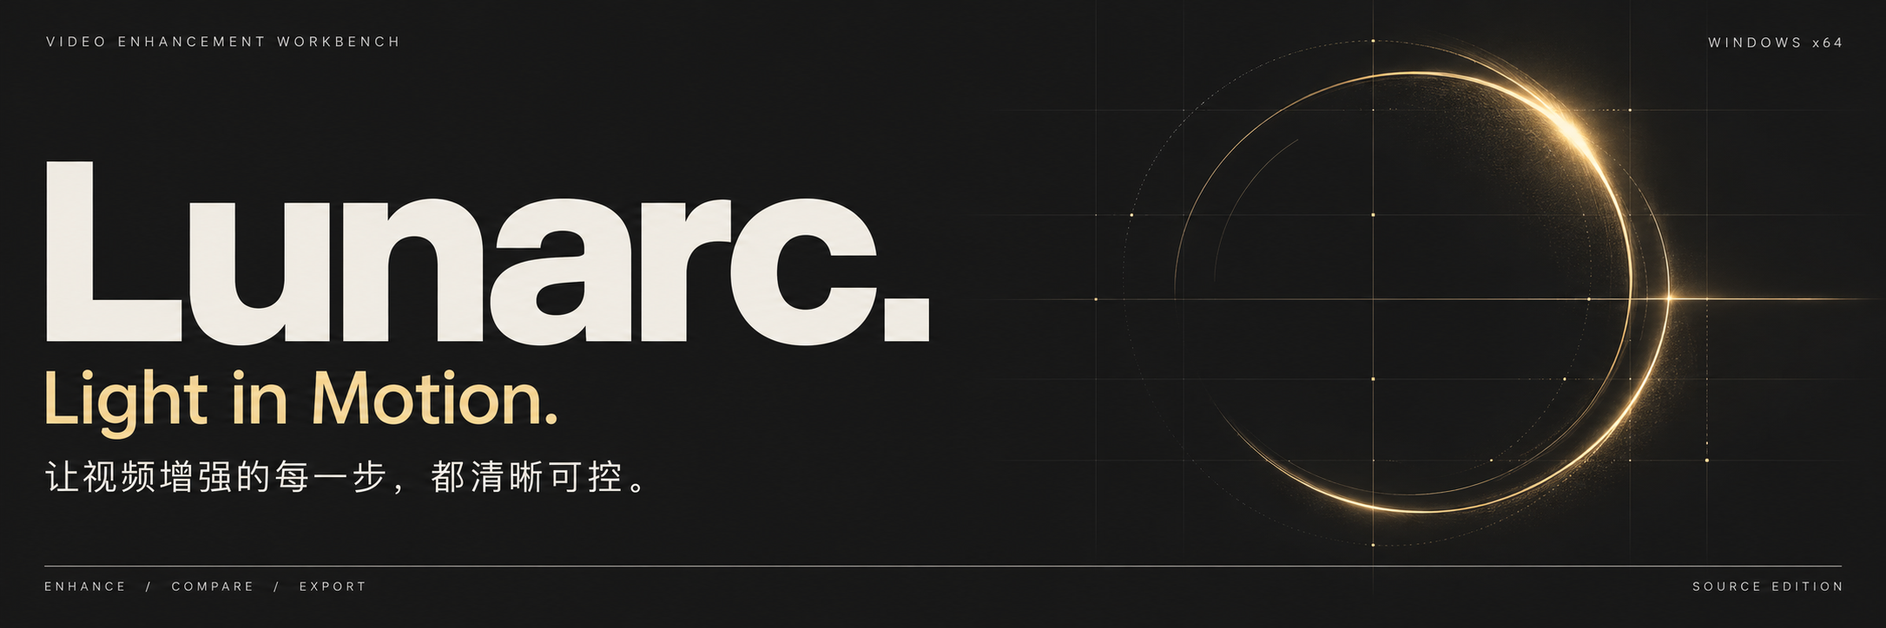
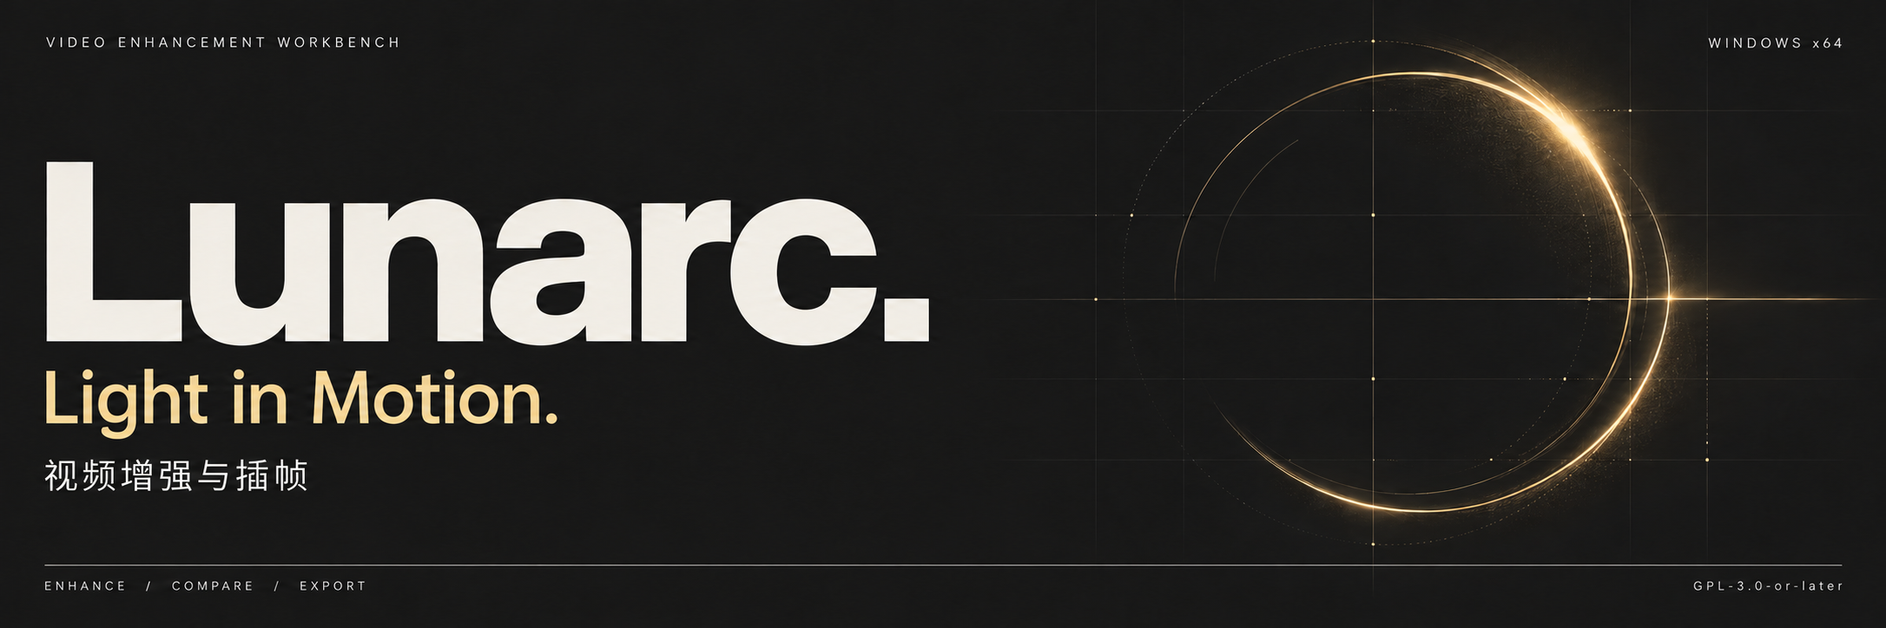
Simplify README and release copy

diff --git a/docs/public-release.md b/docs/public-release.md
@@ -1,93 +1,41 @@
-# Lunarc 公开版本验证范围
+# 测试记录
 
-当前发行采用 2.1.2 小安装包与在线组件。下面保留历史验收；最新结果见文末。
+## 2.1.2
 
-## 已完成的本机运行环境验收
+测试系统：Windows x64，NVIDIA GeForce RTX 5060 Ti（16 GB）。测试日期：2026-10-12。
 
-这些结果来自公开源码整理前的同日开发机验收，并非对其他机器或公开安装包的保证。
+| 项目 | 结果 |
+| --- | --- |
+| 安装程序 | NSIS 安装成功，146,387,590 字节，约 140 MB。 |
+| 基础组件 | CPython 3.10.18、基础 Python 依赖和 FFmpeg 8.1.2 下载、安装及检查通过。 |
+| 首次使用 | 安装按钮、三步教程、进入工作台和重新打开教程通过。 |
+| 后端启动 | 使用组件目录中的 Python，在无效开发环境路径下隔离启动通过。 |
+| GPU 检测 | 基础环境未安装 Torch 时，显卡检测和原生库加载通过。 |
+| 队列 | WebSocket 连接与 init 消息通过。 |
+| DLSSNR 预览 | 导入并使用外部 DLSSNR 310.8.0.0；1280×720 视频预览和连续播放通过。 |
+| RAFT 安装 | PyTorch 2.10.0+cu128、torchvision 0.25.0+cu128 和模型安装通过。 |
+| 下载续传 | PyTorch 主包从 2,216,011,845 字节处继续下载，最终大小及 SHA-256 匹配。 |
+| RAFT 运行 | CUDA 上执行 128×192 帧对、2 次迭代，输出形状 `[1,2,128,192]`，数值有限。 |
+| 重启 | 已安装的 RAFT 组件在重启后启用，CUDA 运算和权重检查通过。 |
+| 相关自动测试 | Node 22 项、Python 21 项通过。 |
+| 发布附件 | 4 个附件的大小和 SHA-256 与本地文件一致，公开下载链接可访问。 |
+| 更新检查 | 通过公开 GitHub API 识别 2.1.2，并核对安装说明及校验清单。 |
 
-- Windows x64，RTX 5060 Ti；实际报告 15.9 GiB 显存。
-- 独立 CPython 3.10.18、torch 2.10.0+cu128、torchvision 0.25.0+cu128；依赖闭包 27 个 Python 分发包。
-- 运行环境清单 17,067 文件，约 5.15 GiB，逐文件大小与 SHA-256 校验。
-- 运行环境、打包路径、HDR 导入、RAFT 分析相关 Python 检查：38 passed；后端启动环境 Node 检查：3 passed。
-- 实际解压目录及安装目录 Electron 启动成功；外部 Python / FFmpeg 路径故意设为无效，PATH 不含开发环境；后端使用包内 Python。
-- 环境页返回 34 项组件检查、9 项功能依赖；缺失 DLAA / VFX 覆盖路径正确报告缺项。
-- 短视频加载与真实 DLSSNR GPU 预览成功；原图 / 处理后 JPEG 返回 121,956 / 129,760 字节。
-- 禁止权重下载后，私有模型缓存中的 RAFT-Large 完成 128×128、2 次更新的 CUDA 推理，返回 `[1, 2, 128, 128]` 且位移有限。
-- 离线两文件安装成功、卸载成功（均 exit 0）；数据包缺失 exit 2，损坏 exit 3。
+首次组件下载来自对应官方源；后续桌面测试使用已校验的下载缓存。
 
-原始本机报告和日志未上传，避免公开机器路径与媒体信息。上述包为本地验收产物，本仓库没有公开分发该二进制。
+### 测试范围
 
-## 源码发布检查
+上述结果来自已有 NVIDIA 驱动的一台 Windows 机器。没有进行多机兼容性测试、完整 HDR/VFG 导出回归、画质评测或速度基准测试。相关自动测试不等同于全量测试。Performance = NOT_CHARACTERIZED。
 
-公开版使用最新工作树的源码快照，保留独立运行环境构建器、环境检测、测试及第三方原始通知。项目许可为 GPL-3.0-or-later；构建脚本改为定位当前目录并发现 Visual Studio，SDK 路径由环境变量提供。
+公开下载检查读取了安装程序的前 1024 字节；完整文件摘要通过 GitHub 资产信息与本地文件核对。
 
-发布目录排除旧 Git 历史、本机配置、账号配置、原始诊断证据、媒体、模型和编译二进制。
-从独立的公开源码目录实际验证：
+### 修复记录
 
-- `native/build_all.bat`：18 个基础原生桥接 DLL 从源码构建成功（exit 0）。Visual Studio 自动发现成功，DLSS / FFmpeg SDK 从环境变量取得，未复制旧目录的桥接 DLL。AMD 构建未在本次重新执行，需要额外提供官方编译器；脚本明确报告跳过。基础 NVOF 编译有既有的编码/宏重复警告，其余构建继续通过。
-- `frontend/npm ci` 与 `npm run build`：通过，TypeScript、Vite renderer / Electron main / preload 均生成。
-- `test_runtime_environment`、`test_raft_analysis`、`test_comparison_audio`、`test_hdr_gpu_engine`、`test_no_misleading_claims`：合计 **137 passed**。这是相关范围检查，不是全量单元测试结果。
-- `tests/node/backend_runtime.test.ts`：**3 passed**。
-- 发布文件检查：没有检测到私钥或常见 API token 格式，没有可执行 PE 二进制、模型或媒体文件；个人目录与本机账号配置已排除。该检查不是完整安全审计。
+- RAFT 本地 wheel 安装改为仅接受对应 Windows 主包的精确 SHA-256，解决多平台摘要列表造成的安装失败。
+- 教程和运行库检查脚本修正了 API 返回值、参数同步与目录联接路径的判断。表中结果取自修正后的通过记录。
 
-## 限制
+## 历史记录
 
-已有显卡驱动机器上的隔离环境验收，不能替代另一台干净 Windows 的 GPU 安装验收。文件存在及基础计算成功也不能代替每种素材、SDK 模型及 GPU 架构的实际会话检查。
+2.1.1 离线安装器曾在本地测试，未公开发布。当前提供 2.1.2 安装版。
 
-本次公开整理不重新测量 GPU 渲染速度，不声称完成全量 HDR / VFG 导出回归；Performance = NOT_CHARACTERIZED。专有运行库兼容性及组合二进制分发许可需单独处理。
-
-## DLSSNR 外置运行库管理器
-
-用户选择保留纯 GPL-3.0-or-later，不采用专有链接例外，暂不发布组合安装包。后续资源配置不自动携带 DLSSNR，原有本地包并未因此变成可公开分发的包。
-
-已实现版本目录、DLL / ZIP 本地导入、可信目录/下载来源、SHA-256、Windows NVIDIA 签名及版本检查、独立版本/下载缓存、取消、版本选择/删除和明确缺失错误。参考机制及固定源码版本见 [运行库管理](dlssnr-runtime.md)。
-
-本次开发工作树验证：
-
-- 相关 Python 范围检查：修正检查器误扫描已忽略安装目录中的第三方库后，240 项通过、3 项跳过；不是全量单元测试。另对更新后的 NR / DLAA 会话隔离与原生路由执行相关范围检查，58 项通过（与前述范围重叠，不累加）。
-- TypeScript 与 renderer / Electron main / preload 构建通过。
[1 lines of base64/hex data omitted]
-- 独立缓存文件传给真实 Feature 18 宿主（ABI 3），256×144 两帧 GPU 处理通过，原始 DLL 保留。这是接口烟雾验收，不是性能或画质基准。
-- 真实 Electron / 后端隔离数据目录验收：导入、签名/版本显示、选用、强制签名复查、目录已缓存状态、取消选择、删除通过，原文件仍在。发现并修正成功提示与状态刷新的先后顺序。
-- 最终运行库 / API / 环境检测 / 预览生命周期范围检查 72 项通过；与前述检查重叠。添加来源及未选用的缓存版本不触发正在使用的预览重建。真实 DLAA-only 256×144 单帧处理通过，强制禁止 NR 解析器被调用，仍成功使用本机 DLAA 运行库。
-
-仅已核对 310.8.0.0 的短会话；签名有效的其他版本需明确实验性选择。当前无断点续传，不自动升级模型。没有重新运行全部 HDR / VFG 导出组合，Performance = NOT_CHARACTERIZED。原始下载/GPU/界面证据保留本机，不上传用户路径或 DLL。
-
-公开源码副本同步后另验收运行库 / API / 环境检测范围 52 项通过，以及 TypeScript / Vite / Electron 构建通过；这些检查与前述范围重叠。
-
-## 2.1.1 本地安装版与首页更新
-
-组合安装包仍只保留本机，未上传公开仓库。2.1.1 使用构建时版本覆盖；源码包的开发版本不因此改变。
-
-- TypeScript / renderer / Electron main / preload 构建通过；最终独立环境清单包含 29 个分发包、17,127 个文件，打包前逐文件校验通过。
-- 发现 Uvicorn 基础安装不包含 WebSocket 传输，导致 HTTP 就绪但预览和队列连接失败。收集器和 requirements 已加入 websockets，启动及打包检查明确拒绝缺少该依赖的环境。
-- 最终离线两文件安装器实际安装成功，exit 0，应用版本 2.1.1.0；安装后数据包 SHA-256 与安装前一致。
-- 实际安装目录验收：无效的外部 Python / FFmpeg 路径、隔离 PATH 下使用包内 CPython 3.10.18；实际 CUDA 运算通过，环境返回 35 项组件检查。
-- `/ws/queue` 实际连接并接收 init 事件；1280×720、24 fps 原创短合成素材加载成功，真实 NR 会话 ID 1，工作尺寸 960×544，JPEG 预览显示及连续播放帧号前进通过。VFG 保持导出设置，未在预览中运行；本次没有执行 VFG 导出验收。
-- 未携带 DLSSNR 时正确报告缺失；由独立验收目录导入 NVIDIA 签名有效的 310.8.0.0 后激活成功，安装版运行库界面通过。
-- 公开源码副本的环境 / 运行库 API 相关检查 **14 passed**；开发目录更广相关范围先前通过，范围有重叠，不累加，也不是全量测试。
-
-README 采用 Cinematic × Swiss Minimalism，保留原青绿色 Logo。品牌横幅是生成插画，工作台图来自上述最终安装版的真实截图；合成素材、运行库、安装包和原始机器诊断均不上传。视觉资产来源与完整生成提示词见 [首页设计](readme-design.md)。
-
-本轮没有重新测量性能或全部 HDR / VFG 组合；Performance = NOT_CHARACTERIZED。验收机器仍为已有 NVIDIA 驱动的开发机，不能替代其他机器的安装验收。
-
-## 2.1.1 发布取消
-
-用户曾授权上传已验收的离线包，数据包按 GitHub 附件限制拆分并开始上传草稿。2026-10-12 用户选择“小安装包 + 在线组件”，上传助手已停止，未完成的 2.1.1 Release 草稿已删除。旧安装与分卷验收保留为历史记录，不再提供完整离线发行。
-
-## 2.1.2 小安装包与首次使用
-
-- 实际 NSIS 安装成功。Setup 为 **146,387,590 字节（约 140 MiB）**，不用额外分卷；包含界面、组件安装工具、项目桥接与共享原生依赖，不含 Python、PyTorch/CUDA、RAFT 权重或专有模型 DLL。
-- 组件管理器从官方源实际下载并安装 CPython 3.10.18、哈希锁定的基础 Python 包与 Gyan FFmpeg 8.1.2 essentials。执行基础导入和 FFmpeg 必需过滤器检查后，才写入完成标记。
-- 实际安装版首次启动页、安装按钮 IPC、三步教程、进入工作台与教程重开通过。桌面测试复用了上述已下载并校验的组件缓存，不把缓存复用描述成再次全量网络下载。
-- 无效开发 Python/环境路径下，用用户数据目录的 managed venv 与 `-I` 启动。没有安装 Torch 的基础环境正确识别 RTX 5060 Ti、原生桥接加载成功、队列 WebSocket init 成功。
-- 外部签名有效 DLSSNR 310.8.0.0 导入/激活，真实 NR 会话、1280×720 JPEG 显示、播放帧号前进通过；本次不重新声明 HDR/VFG 导出或跨机器性能验收。
-- Node 更新/组件/后端/队列相关测试 **22 passed**；Python 环境/运行库 API/旧安装器兼容测试 **21 passed**，不是全量测试。小包更新必须核对 `INSTALLER.json`、GitHub 资产和 SHA256SUMS；不能把缺少 payload 的旧 web bootstrap 当成完整安装器。
-- PyTorch/CUDA 主包实际从官方源下载，大小 2,867,370,185 字节；中断后从 2,216,011,845 字节继续下载，完整 SHA-256 匹配固定清单。安装重试复用该已校验文件，最终管理器安装与 RAFT 权重加载通过。旧的多平台摘要列表使 uv 本地 wheel 安装失败，改为只允许该 Windows 主包的精确摘要后通过；未关闭哈希校验。
-- 独立可选环境在管理的 Python 3.10.18、`-I` 下执行 Torch 2.10.0+cu128 和真实两次迭代 RAFT CUDA 帧对，输出 `[1,2,128,192]` 且数值有限。本次只验收安装兼容性，不声称光流方向、精度或性能得到重新验证。
-- 最终安装器再次安装成功，已安装的主进程文件与打包输入一致。实际安装版在新配置目录复用已验证组件后，基础后端、CUDA 驱动、RAFT CUDA 运算与权重检测通过；可选组件重启启用检查见 `components-raft-ui-final-2`。首轮检查器将目录联接显示路径误当成真实路径而失败，改为核对解析后的路径再通过。
-
-原始最终基础桌面证据保存在本机 `20261012-evidence/components-ui-final`，RAFT 安装与短 CUDA 记录为 `raft-install-production.json` / `raft-cuda-pair.json`。此前两次验收脚本分别误读导入 API 返回值、未同步 renderer 参数而失败；修正检查器后实际产品流程通过，不把失败运行作为通过证据。
-
-仍需 Windows x64、匹配驱动以及对应外部模型运行库；首次组件安装需要网络。SHA 校验不等于安装器代码签名。Performance = NOT_CHARACTERIZED。
+此前的源码构建、运行库和安装测试详情见 [历史测试记录](https://github.com/Yukikaze1945/Lunarc/blob/fc82488b6986353bc12ba4fd652a4fed75531420/docs/public-release.md)。

diff --git a/README.md b/README.md
@@ -1,89 +1,75 @@
 <p>
-  <img src="docs/assets/lunarc-logo.svg" width="32" height="32" alt="Lunarc 青绿色光弧标志" />
-  &nbsp; <strong>LUNARC</strong> &nbsp; / &nbsp; VIDEO ENHANCEMENT WORKBENCH
+  <img src="docs/assets/lunarc-logo.svg" width="32" height="32" alt="Lunarc" />
+  &nbsp; <strong>LUNARC</strong>
 </p>
 
-![Lunarc · Light in Motion. 让视频增强的每一步，都清晰可控。](docs/assets/lunarc-banner.png)
+![Lunarc — 视频增强与插帧](docs/assets/lunarc-banner.png)
 
-**Windows x64** &nbsp; · &nbsp; **安装版与源码** &nbsp; · &nbsp; **GPL-3.0-or-later**
+**Windows x64** &nbsp; · &nbsp; **GPL-3.0-or-later**
 
-一个把重建、画面对比与导出放在一起的中文视频增强工作台。排好渲染顺序，调整画面，检查结果。
+Lunarc 是一款视频增强软件，支持 DLSSNR、DLAA、RTX VSR 和 NVIDIA VFG，可调整处理顺序、预览画面并批量导出。
 
-[下载 Windows 安装版](https://github.com/Yukikaze1945/Lunarc/releases/tag/v2.1.2) &nbsp; / &nbsp; [源码运行](docs/getting-started.md) &nbsp; / &nbsp; [运行库管理](docs/dlssnr-runtime.md) &nbsp; / &nbsp; [验证范围](docs/public-release.md)
+[下载安装版](https://github.com/Yukikaze1945/Lunarc/releases/tag/v2.1.2) &nbsp; / &nbsp; [安装说明](docs/installing.md) &nbsp; / &nbsp; [源码运行](docs/getting-started.md)
 
-**安装 2.1.2：** 下载 **`Lunarc-2.1.2-x64-Setup.exe`**。首次启动按教程安装基础运行环境与视频处理组件，再进入工作台。RAFT 光流按需下载，软件更新复用已有组件；不再提供完整离线包。详细步骤见 [安装说明](docs/installing.md)。
+## 01 / 界面
 
----
+![视频预览、渲染顺序与画质设置](docs/assets/lunarc-workbench.png)
 
-## 01 / 工作台
+<sub>截图中的视频为演示素材。</sub>
 
-![Lunarc 实际工作台：视频预览、可排序渲染链和画质参数](docs/assets/lunarc-workbench.png)
-
-<sub>实际安装版界面，使用原创合成素材。截图展示操作布局，不作为画质或性能对比证据。</sub>
-
-| 渲染链 · Enhance | 画面对比 · Inspect | 导出队列 · Deliver |
+| 画面处理 | 视频对比 | 批量导出 |
 | :--- | :--- | :--- |
-| 拖动卡片决定处理顺序，按需组合 DLAA、DLSSNR、RTX VSR 与 VFG。 | 原图、处理后与分屏预览；对比页支持两段视频连续播放。 | 配置编码与封装，查看进度、诊断任务、移除完成或失败的条目。 |
+| 拖动卡片调整 DLAA、DLSSNR、RTX VSR 和 VFG 的处理顺序。 | 查看原图、处理结果和分屏预览，对比导出前后的视频。 | 设置编码、画质和保存位置，管理导出任务。 |
 
-## 02 / 你能控制什么
+## 02 / 功能
 
-| 功能 | 支持范围 | 状态与条件 |
-| :--- | :--- | :--- |
-| 神经重建 | DLSSNR 单层 / 双层 / 三层，分层尺寸和权重 | Feature 18 需要匹配的 GPU、驱动及 DLSSNR 运行库；多尺度数据一致性融合为**实验性**。 |
-| 光流引导 | NVOF、AMD FidelityFX Optical Flow、RAFT-Large | 引擎能力与质量选项分别检测；RAFT 可选长边 512 / 720 / 1080 分析尺寸。 |
-| 原生画质处理 | DLAA 模型预设、RTX VSR 质量档位，按倍率或分辨率输出 | 需要用户另行取得对应 NVIDIA 运行库；支持范围在实际会话中验证。 |
-| 导出插帧 | NVIDIA VFG 固定倍率 / 目标帧率，镜头切换检测 | **仅用于导出**，实时预览保持原帧率；固定 5×–8× 为**实验性**。 |
-| 色彩链路 | SDR 8-bit、SDR 10-bit、HDR10 | HDR10 为**实验性**，保留 PQ / BT.2020 / P010 / Main10 及静态元数据。 |
-| 封装与素材 | 视频 / 图片拖入；音轨、字幕、章节、附件与元数据 | FFmpeg 封装；实际保留范围取决于输入流和所选输出容器。 |
-| 运行库管理 | 版本选择、DLL / ZIP 导入、确认来源后下载、独立缓存 | SHA-256、NVIDIA 签名及版本检查；当前已核对 DLSSNR 310.8.0.0。 |
-| 环境检测 | 基础包、原生 GPU 驱动、可选 RAFT CUDA 运算、DLL / ABI、FFmpeg 和模型 | 展示实际检测结果；依赖齐全不等于每种特效已运行成功。 |
+| 功能 | 说明 |
+| :--- | :--- |
+| DLSSNR | 单层、双层和三层处理，可调整各层分辨率与权重。多尺度数据一致性融合为实验性功能。 |
+| DLAA / RTX VSR | DLAA 模型预设；RTX VSR 质量档位，按倍率或指定分辨率输出。 |
+| 光流 | NVIDIA NVOF、AMD FidelityFX Optical Flow 和 RAFT-Large。RAFT 分析尺寸可选长边 512、720、1080。 |
+| NVIDIA VFG | 按固定倍率或目标帧率插帧，支持镜头切换检测。仅用于导出；5×–8× 为实验性选项。 |
+| 色彩 | SDR 8-bit、SDR 10-bit 和 HDR10。HDR10 为实验性功能，支持保留静态 HDR 元数据。 |
+| 素材与封装 | 拖入视频或图片；导出时保留音轨、字幕、章节、附件与元数据，具体取决于输出容器。 |
+| 运行库管理 | 下载、导入和切换 DLSSNR 版本，检查文件摘要、数字签名和版本。 |
 
-### 使用前了解
+## 03 / 安装
 
-- Git 仓库提供**源码与测试**；Windows 安装版在 **Releases**。小包携带界面、项目桥接及其原生依赖；Python 与 FFmpeg 首次安装，PyTorch / CUDA 与 RAFT 权重按需下载。DLSSNR / DLAA / VSR / VFG 模型运行库由用户另行提供。
-- HDR 预览通过 8-bit 显示图像进行映射，尚未校准显示器，不能用预览判断最终 HDR 亮度。
-- 特效支持受 GPU、驱动、运行库、尺寸与素材影响；缺失组件会明确报告，不静默替换算法。
-- 预览、诊断和标量回读仍有主机传输。部分 GPU 图像边界的零回读，不代表整个程序零主机流量。
-- 尚未提供跨机器性能保证；**Performance = NOT_CHARACTERIZED**。字幕尾部事件和音频 padding 可能超过视频结尾。
+1. 在 [Releases](https://github.com/Yukikaze1945/Lunarc/releases/tag/v2.1.2) 下载并运行 `Lunarc-2.1.2-x64-Setup.exe`，约 140 MB。
+2. 首次启动按提示安装基础运行环境和视频处理组件。
+3. 在 **运行与诊断 → DLSSNR 运行库** 中下载或导入运行库，再选择“使用”。
 
-## 03 / 从源码开始
+RAFT 光流需要另外安装 PyTorch/CUDA 和模型，可以在 **软件设置 → 组件管理** 中安装。不使用 RAFT 时无需下载这些文件。更新软件会保留已安装且版本匹配的组件。
+
+### 系统要求与限制
+
+- Windows x64、支持所选功能的 NVIDIA 显卡及驱动。
+- DLSSNR、DLAA、RTX VSR 和 VFG 需要对应的 NVIDIA 运行库，安装包不包含这些文件。
+- 首次安装组件需要联网；RAFT 下载量为数 GB，安装后需重启软件。
+- HDR 预览经过显示映射，不能作为最终 HDR 亮度的判断依据。
+- 处理速度取决于显卡、素材分辨率和所选设置。已测试的环境与功能见 [测试记录](docs/public-release.md)。
+
+## 04 / 源码运行
 
 ```powershell
 git clone https://github.com/Yukikaze1945/Lunarc.git
 cd Lunarc
 ```
 
-准备 Python、Node.js、FFmpeg、C++ 构建工具及所需 SDK，按 [源码运行指南](docs/getting-started.md) 安装依赖、编译桥接库，然后运行根目录 **`run_gui.bat`**。
+按 [源码运行指南](docs/getting-started.md) 安装依赖、编译原生库，然后运行根目录的 **`run_gui.bat`**。
 
-第一次使用时，打开 **运行与诊断** 检查实际环境，并通过 **DLSSNR 运行库** 导入或选择合法取得的模型。普通 DLSS 超分 DLL 不能代替 DLSSNR。
-
-<details>
-<summary>关于本地安装包</summary>
-
-项目提供小型 NSIS 安装器和在线组件管理。基础环境、视频工具、可选 RAFT 保存在用户数据目录；显卡驱动仍需单独安装。
-
-构建方法见 [打包说明](packaging/README.md)。安装版在 Releases 提供单个 Setup EXE，首次使用时安装所需组件。本项目源码保持 GPL-3.0-or-later，第三方组件保留自身许可；构建脚本、下载来源或文件签名不授予额外的组件再分发权。
-
-</details>
-
-## 04 / 文档与验证
+## 05 / 文档
 
 | 文档 | 内容 |
 | :--- | :--- |
-| [源码运行](docs/getting-started.md) | 前置环境、依赖安装、原生桥接库构建与测试。 |
-| [运行库管理](docs/dlssnr-runtime.md) | 本地导入、版本切换、来源下载、哈希与签名检查。 |
-| [原生组件](docs/native-runtime.md) | DLAA、RTX VSR、VFG 等外部运行库配置。 |
-| [AMD 光流](docs/AMD_FLOW_DEPENDENCIES.md) | 固定 SDK 版本与官方编译器要求。 |
-| [软件更新](docs/app-updates.md) | 检查、下载、续传与校验新版安装包。 |
-| [本地打包](packaging/README.md) | 小包构建、在线组件与安装检查。 |
-| [验证范围](docs/public-release.md) | 已完成的真实检查、实验性范围和未覆盖的组合。 |
+| [安装说明](docs/installing.md) | 安装、组件下载和更新。 |
+| [DLSSNR 运行库](docs/dlssnr-runtime.md) | 下载、本地导入和版本管理。 |
+| [DLAA / VSR / VFG 配置](docs/native-runtime.md) | NVIDIA 运行库与 SDK 路径。 |
+| [AMD 光流](docs/AMD_FLOW_DEPENDENCIES.md) | 编译依赖与 SDK 版本。 |
+| [软件更新](docs/app-updates.md) | 检查和下载新版安装程序。 |
+| [构建安装包](packaging/README.md) | 打包方法与依赖。 |
+| [测试记录](docs/public-release.md) | 测试环境、结果和未覆盖的项目。 |
 
-## 05 / 许可与致谢
+## 06 / 许可证
 
-Lunarc 整体按 **GNU GPL version 3 或任何后续版本** 发布，完整文本见 [LICENSE](LICENSE)。允许按许可证使用、修改与再分发，不提供担保。
-
-第三方组件保留各自许可和版权；NVIDIA 运行库仍适用原协议。见 [第三方说明](THIRD_PARTY_NOTICES.md) 与 [历史 MIT 通知](LICENSES/Lunarc-legacy-MIT.txt)。光流、模型、封装与设计参考的来源保留在对应文档中。
-
----
-
-<sub>Lunarc · Light in Motion.</sub>
+Lunarc 使用 **GPL-3.0-or-later**，详见 [LICENSE](LICENSE)。第三方组件适用各自的许可证，见 [第三方说明](THIRD_PARTY_NOTICES.md)。

diff --git a/docs/installing.md b/docs/installing.md
@@ -1,31 +1,39 @@
-# Windows 安装版
+# 安装 Lunarc
 
 [下载 Lunarc 2.1.2](https://github.com/Yukikaze1945/Lunarc/releases/tag/v2.1.2)
 
-## 安装与首次启动
+## 首次安装
 
-1. 下载 **Lunarc-2.1.2-x64-Setup.exe**，运行安装程序。无需下载分卷或合并文件。
-2. 首次启动显示使用教程。先安装 **基础运行环境**，再安装 **视频处理组件**。
-3. 组件安装完成后进入工作台。以后可以从侧栏或软件设置重新打开教程。
+1. 下载并运行 **Lunarc-2.1.2-x64-Setup.exe**，约 140 MB。
+2. 启动 Lunarc，先安装 **基础运行环境**，再安装 **视频处理组件**。
+3. 按教程进入工作台。教程也可以从侧栏或软件设置重新打开。
+4. 在 **运行与诊断 → DLSSNR 运行库** 中下载或导入 DLL / ZIP，再选择“使用”。
 
-安装包约 140 MiB，包含桌面界面、项目桥接库与其原生依赖、组件安装工具。Python、基础 Python 依赖和 FFmpeg 命令行程序首次启动时联网下载；PyTorch/CUDA 和 RAFT 权重仅在安装可选的 **RAFT 光流** 时下载。不再提供完整离线包。
+无需自行安装 Python、Node.js 或 CUDA Toolkit。DLAA、RTX VSR 和 NVIDIA VFG 需要对应的 NVIDIA 运行库，配置方法见 [运行库配置](native-runtime.md)。
 
-组件位于 `%APPDATA%/DaVinci_DLSS5_Studio/components`，独立于软件安装目录。重新安装或更新软件会复用版本仍匹配的组件与已校验的下载文件。首次安装 RAFT 仍有数 GB 的下载与磁盘开销，安装后需要重启软件。
+## RAFT 光流
 
-安装需要连接 GitHub、PyPI、Astral 的 Python 分发源和 Gyan FFmpeg；RAFT 还需要连接 PyTorch 官方源。失败时显示具体原因，可重试。暂停保留已经完成的下载；FFmpeg、PyTorch/CUDA 主包和 RAFT 模型支持断点续传。其他 Python 依赖由 uv 管理下载缓存，不保证每个文件都能续传。
+只有使用 RAFT 时才需要安装 PyTorch/CUDA 和模型。在 **软件设置 → 组件管理** 中安装 **RAFT 光流**，完成后重启软件。
 
-## 模型运行库与显卡
+首次下载需要数 GB 的流量和磁盘空间。NVIDIA / AMD 原生光流、DLSSNR 及 GPU 解码编码不依赖 PyTorch。
 
-Windows x64 和匹配的 NVIDIA GPU / 驱动仍是 GPU 功能的前提。不需要自行安装 Python、Node.js、pip 或 CUDA Toolkit。
+## 下载与存储
 
-DLSSNR 不随安装包携带：在 **运行与诊断 → DLSSNR 运行库** 中导入合法取得的 DLL / ZIP，或确认来源后下载，再选择“使用”。DLAA、RTX VSR 与 NVIDIA VFG 也需要对应 NVIDIA 运行库。
+组件下载需要连接 GitHub、PyPI、Python 分发源和 Gyan FFmpeg；RAFT 还需要连接 PyTorch 官方源。下载失败后可以重试。
 
-**不装 RAFT 不影响原生 GPU 功能。** 显卡检测、原生 NVIDIA / AMD 光流、DLSSNR 和 GPU 解码编码不依赖 PyTorch；各特效的设备和模型兼容性仍在实际会话中验证。
+FFmpeg、PyTorch/CUDA 主包和 RAFT 模型支持断点续传。其他 Python 依赖使用下载缓存，部分文件可能需要重新下载。
 
-HDR10、多尺度数据一致性融合和 5×–8× 插帧仍为实验性。预览经过 8-bit 显示映射，不能用来判断显示器上的 HDR 亮度。Performance = NOT_CHARACTERIZED。
+组件保存在 `%APPDATA%/DaVinci_DLSS5_Studio/components`。重新安装或更新 Lunarc 会保留版本匹配的组件。
 
-## 更新
+## 更新软件
 
-在 **关于 Lunarc → 软件更新** 中检查、下载和校验新版安装包。退出软件后运行新的 Setup；组件目录会保留。此方式没有安装器增量更新，运行组件也不会自动追随最新版升级。
+在 **关于 Lunarc → 软件更新** 中检查和下载更新。退出 Lunarc 后运行新版安装程序。2.1.2 为预发布版，检查更新时需勾选“包含预发布版本”。
 
-项目为 GPL-3.0-or-later，第三方组件保留各自许可。Release 提供 `SHA256SUMS.txt` 和 `INSTALLER.json`；安装目录保留组件许可证、来源与固定版本记录。
+## 注意事项
+
+- 需要 Windows x64 和支持所选功能的 NVIDIA 显卡、驱动。
+- HDR10、多尺度数据一致性融合和 5×–8× 插帧为实验性功能。
+- HDR 预览经过显示映射，不能用来判断最终 HDR 亮度。
+- 安装程序尚未进行代码签名。`SHA256SUMS.txt` 提供文件完整性校验。
+
+项目使用 GPL-3.0-or-later，第三方组件适用各自的许可证。

diff --git a/docs/app-updates.md b/docs/app-updates.md
@@ -1,25 +1,23 @@
-# 软件检查与下载更新
+# 软件更新
 
-桌面版 **关于 Lunarc → 软件更新** 提供检查、下载、暂停与续传、校验后的安装目录入口。显示实际 Electron 应用版本；源码运行会明确标注。
+打开 **关于 Lunarc → 软件更新**。
 
-1. 检查更新，可选择包含预发布版本。
-2. 下载新版 Setup 及小型校验/安装说明文件。
-3. 校验完成后打开安装目录，退出工作台，再运行 Setup。已经安装的运行组件继续复用。
+1. 点击检查更新。要获取预发布版，请勾选“包含预发布版本”。
+2. 下载新版安装程序，支持暂停和继续下载。
+3. 校验完成后打开下载目录，退出 Lunarc，再运行安装程序。
 
-没有自动执行安装器或应用增量更新。运行组件固定版本，不会随应用检查自动升级；组件锁变化时才要求重新安装相应组件。旧完整离线包不再发布。
+更新会保留版本匹配的已安装组件。软件不会自动运行安装程序，也不会自动升级运行组件。
 
-## 下载与校验
+## 下载来源与校验
 
-发布源固定为 Yukikaze1945/Lunarc 的 GitHub Releases 公共 API，无需账户令牌。忽略草稿、纯源码发布和不完整安装资产；支持版本与预发布频道选择。
+更新来自 [Lunarc Releases](https://github.com/Yukikaze1945/Lunarc/releases)，不需要 GitHub 账号。
 
-小包必须提供 `INSTALLER.json`，其 schema、components 模式、版本、Setup 大小与 SHA-256 必须和 GitHub API、`SHA256SUMS.txt` 一致。更新器仍可识别历史完整资产组，以便旧格式升级。
+下载前检查 `INSTALLER.json`、GitHub 文件信息和 `SHA256SUMS.txt`。文件下载完成后核对大小及 SHA-256，校验失败的文件不能进入安装步骤。
 
-下载在 Electron 主进程进行，页面不能指定下载地址、输出路径或执行命令。文件先写入 `.part`，完整大小/SHA-256 校验后才改为正式名称。完整文件只在再次验证后复用；部分文件续传需要精确匹配 HTTP Content-Range，服务器返回 200 时重写文件。
+下载保存在应用用户数据目录的 `updates/<版本号>`。网络连接或 GitHub 限流可能导致检查失败，稍后可以重试。
 
-检查超时 20 秒，下载 60 秒没有数据会暂停并允许重试。下载缓存位于 `userData/updates/<version>`；不会使用渲染 GPU。GitHub 连通性与请求限流仍可能影响访问。
+## 开发说明
 
-## 验证范围
+更新器在 Electron 主进程下载文件。未完成文件以 `.part` 保存，续传时检查 HTTP Content-Range；服务器不支持续传时重新下载。
 
-`tests/node/app_updates.test.ts` 覆盖版本、频道、资产完整性、固定来源、摘要、续传、损坏与暂停，以及小包格式声明。桌面验收使用真实 Electron/preload/IPC 和微型模拟 GitHub 资产，不能描述为真实安装器联网下载。
-
-新安装版的实际构建、组件下载、隔离启动和原生预览证据见 [公开版本验证记录](public-release.md)。
+检查超时为 20 秒，下载 60 秒没有收到数据时暂停。安装程序的格式声明和旧版附件格式兼容逻辑见 `frontend/electron/appUpdates.ts`，相关测试见 `tests/node/app_updates.test.ts`。

diff --git a/docs/native-runtime.md b/docs/native-runtime.md
@@ -1,6 +1,6 @@
 # 原生组件配置
 
-源码仓库不包含运行库和预编译桥接 DLL。请先按根目录 README 构建；库文件存在不等于当前 GPU 支持对应特效。
+源码仓库不包含运行库和预编译桥接 DLL。源码运行前请按构建指南编译原生库。
 
 | 配置 | 用途 |
 | --- | --- |
@@ -10,14 +10,14 @@
 | `FFX_SC_EXECUTABLE` | 官方 FidelityFX_SC 编译器路径，用于 AMD 光流构建。 |
 | `LUNARC_DLSS_DLL` | 可选，指定本机合法取得的 `nvngx_dlss.dll`，用于 DLAA；不同于 DLSSNR 运行库。 |
 | `LUNARC_VSR_RUNTIME` | 可选，指定 NVIDIA VFX SDK 根目录，供 VSR / VFG 发现。也可在高级设置选择目录。 |
-| `DLSS5_FFMPEG_DIR` | 可选，指定包含真实 FFmpeg / FFprobe 程序的目录；不要指向命令代理目录。 |
-| `TORCH_HOME` | 开发环境的 PyTorch 模型缓存根目录；独立包使用自身的离线模型目录。 |
+| `DLSS5_FFMPEG_DIR` | 可选，指定包含 FFmpeg / FFprobe 程序的目录；不要指向命令代理目录。 |
+| `TORCH_HOME` | 开发环境的 PyTorch 模型缓存根目录；安装版使用组件目录中的模型缓存。 |
 | `PYTHON_PATH` | 源码启动时选择 Python 解释器；安装版不采用此覆盖。 |
 
-DLSSNR 通过“运行与诊断 → DLSSNR 运行库”管理：本地 DLL / ZIP 导入、可信目录、版本目录下载、缓存版本选择与移除。实际宿主只接收校验后的独立缓存路径，详见 [运行库管理](dlssnr-runtime.md)。开发环境首次使用可将旧根目录 DLL 校验后迁移到缓存；独立运行模式必须明确导入并选择，取消选择后不自动恢复旧库。
+DLSSNR 通过“运行与诊断 → DLSSNR 运行库”管理：本地 DLL / ZIP 导入、可信目录、版本目录下载、缓存版本选择与移除。处理时使用校验后的缓存文件，详见 [运行库管理](dlssnr-runtime.md)。开发环境首次使用可将旧根目录 DLL 校验后迁移到缓存；独立运行模式必须明确导入并选择，取消选择后不自动恢复旧库。
 
-DLAA 默认会检查 NVIDIA NGX 本机缓存，VSR / VFG 会检查本机 VFX 目录；这些发现机制不会授予组件使用权。10-bit / HDR VFX 路径要求新版 SDK Core 和对应特效模块。
+DLAA 默认会检查 NVIDIA NGX 本机缓存，VSR / VFG 会检查本机 VFX 目录。10-bit / HDR VFX 路径要求新版 SDK Core 和对应特效模块。
 
 `nvdec_bridge.dll` / `nvenc_bridge.dll` 的 FFmpeg 导入库版本必须和运行时共享 DLL 匹配。CUDA 驱动 DLL 来自 Windows 已安装的 NVIDIA 驱动，不应从开发机复制显卡驱动到软件目录。
 
-缺少组件时，“运行与诊断 → 运行环境”会列出实际缺项。只有实际创建特效会话、执行并验收结果，才能确认对应输入可用。
+缺少组件时，“运行与诊断 → 运行环境”会列出缺少的组件。特效是否可用还取决于显卡、驱动、运行库版本和输入尺寸。

diff --git a/packaging/README.md b/packaging/README.md
@@ -1,6 +1,6 @@
-# 小安装包与在线组件
+# 构建安装包
 
-默认构建 Windows x64 NSIS 安装器。安装器只携带 Electron 界面、后端源码、项目桥接与最小原生依赖、固定版本 uv；不收集 Python、PyTorch/CUDA 或 RAFT 权重。旧离线收集器仅保留用于历史构建复现，不再用于默认发布。
+默认构建 Windows x64 NSIS 安装器。安装器只携带 Electron 界面、后端源码、项目桥接与最小原生依赖、固定版本 uv；不收集 Python、PyTorch/CUDA 或 RAFT 权重。旧离线构建脚本保留在仓库中。
 
 ## 构建
 
